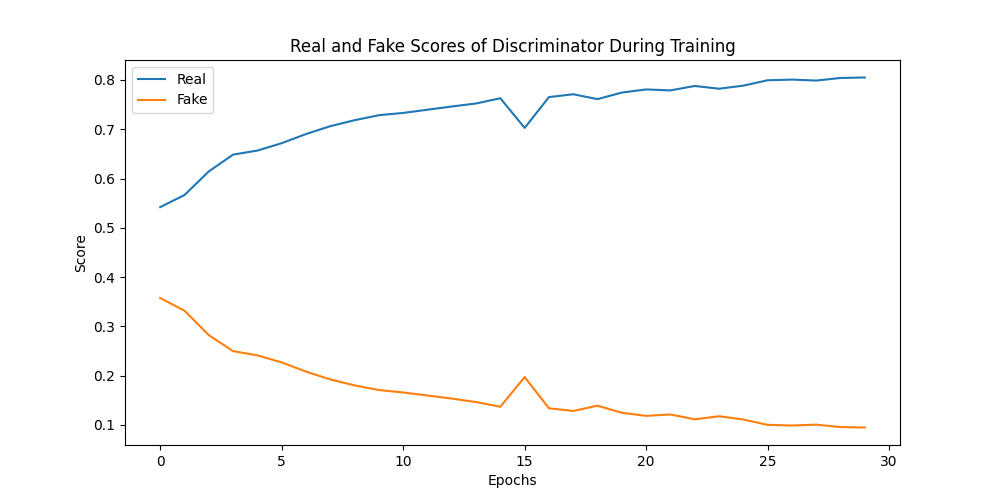
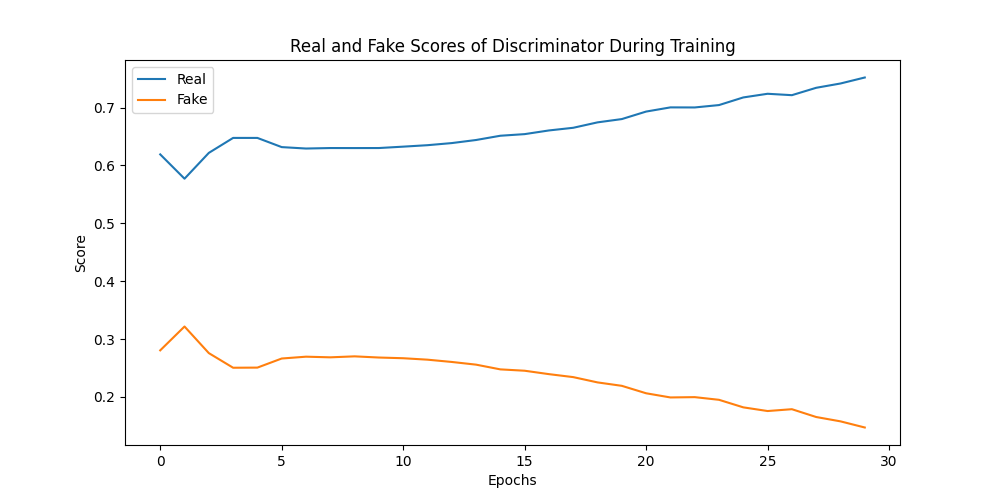
nuovi due training

diff --git a/neural-networks/train.py b/neural-networks/train.py
@@ -525,7 +525,7 @@ if __name__ == '__main__':
     
     # Hyperparametri di training cambiabili a piacimento
     SUBSET_DIM = 10000 
-    EPOCHS = 20
+    EPOCHS = 50
     LEARNING_RATE = 0.0002
     
     # Valori "fissi" scelti per il training
